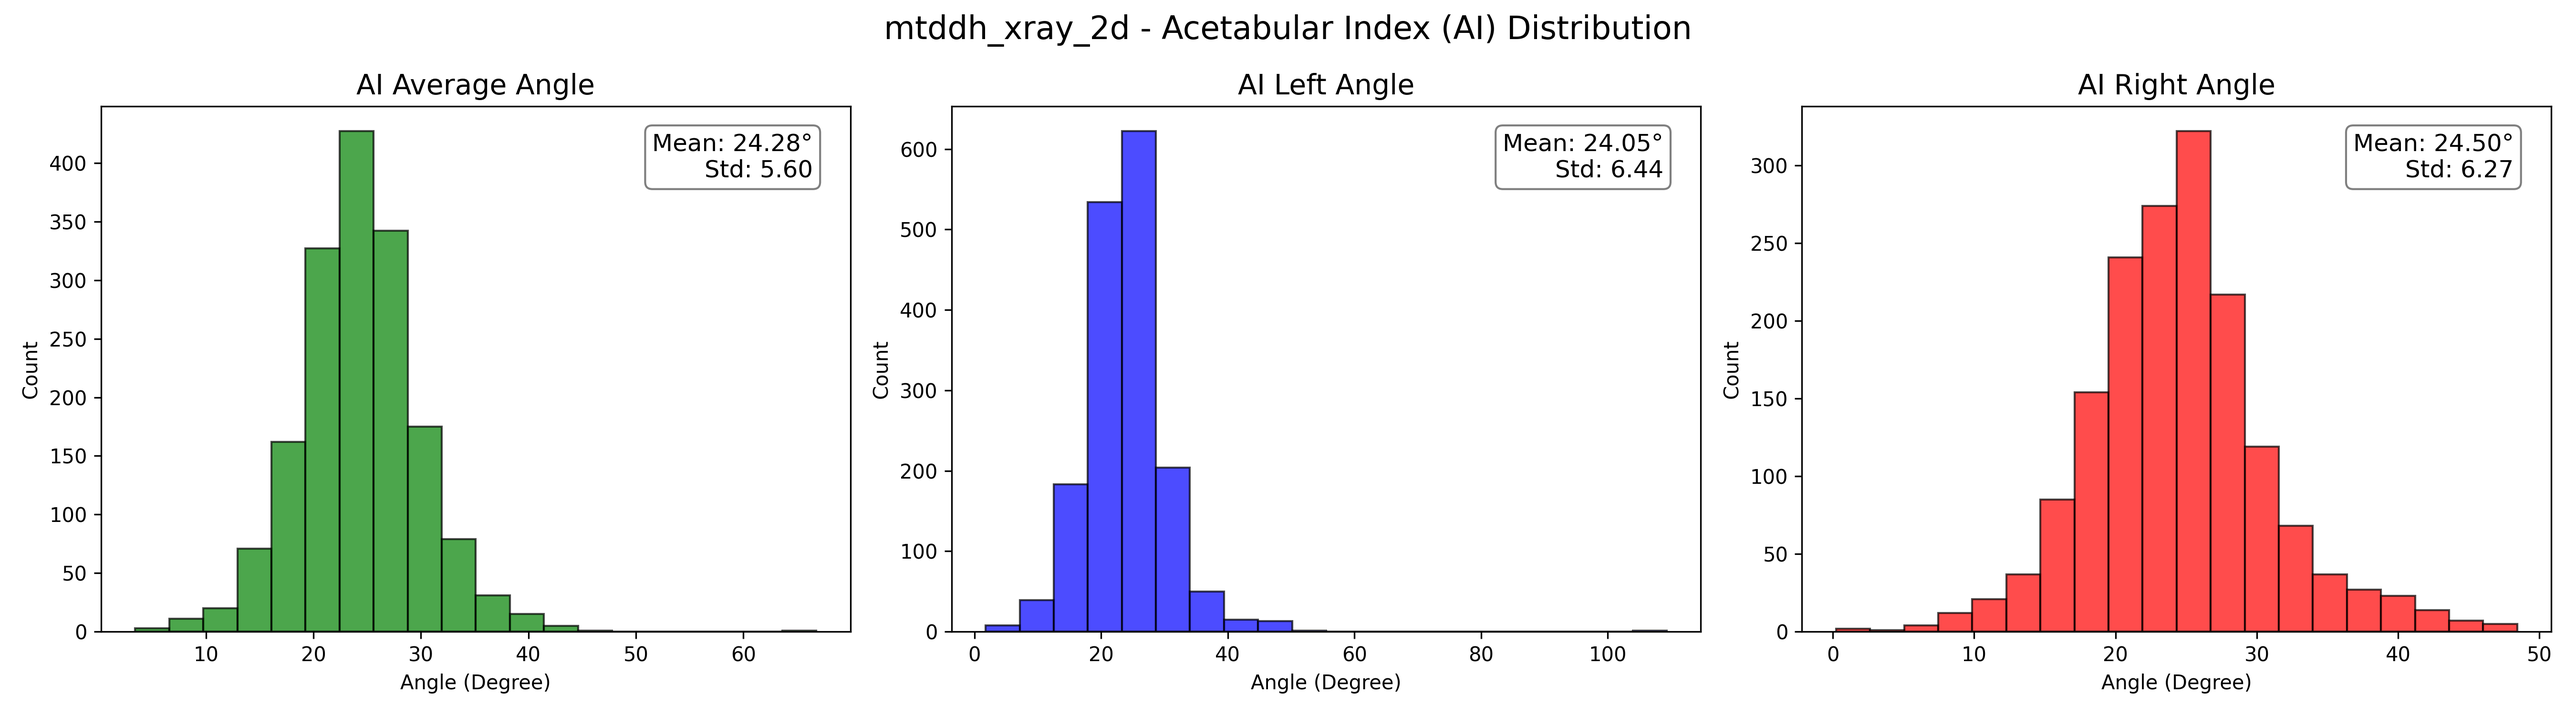
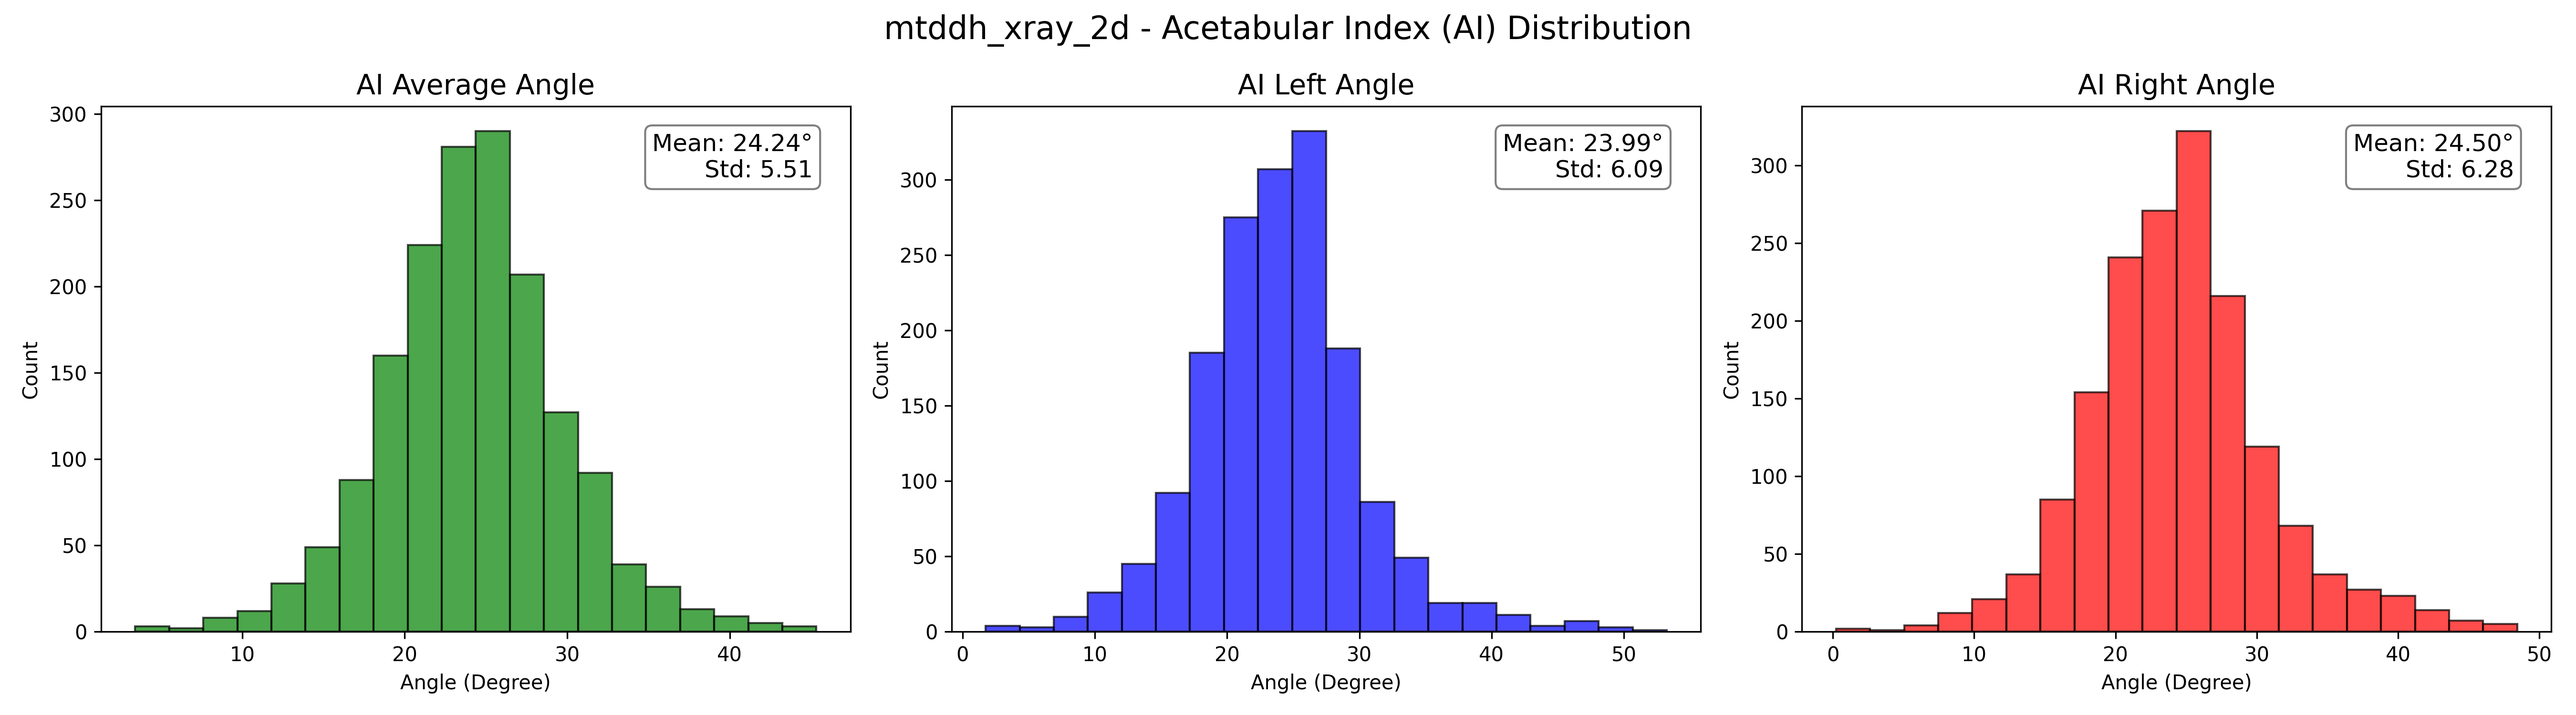
Docs: Fix documentation images.

diff --git a/README.md b/README.md
@@ -85,15 +85,15 @@ This study uses retrospectively collected hip X-ray images from National Cheng K
 
 **Acetabular Index (AI) Distribution**
 
-<img src="dataset/xray_IHDI_2_clean/xray_IHDI_AI_Distribution.png" />
+<img src="dataset/xray_IHDI_AI_Distribution.png" />
 
-<img src="dataset/mtddh_xray_2d/mtddh_xray_2d_AI_Distribution.png" />
+<img src="dataset/mtddh_xray_2d_AI_Distribution.png" />
 
 **IHDI Classification Distribution**
 
 <div style="display: flex; justify-content: space-between; gap: 10px;">
-  <img src="dataset/xray_IHDI_2_clean/xray_IHDI_IHDI_Distribution.png" style="width: 49%;" />
-  <img src="dataset/mtddh_xray_2d/mtddh_xray_2d_IHDI_Distribution.png" style="width: 49%;" />
+  <img src="dataset/xray_IHDI_IHDI_Distribution.png" style="width: 49%;" />
+  <img src="dataset/mtddh_xray_2d_IHDI_Distribution.png" style="width: 49%;" />
 </div>
 
 ## 🏆 Model Performance & Results

diff --git a/README_zh_TW.md b/README_zh_TW.md
@@ -73,13 +73,13 @@
 ### 📊資料統計分佈
 
 **Acetabular Index (AI) 分佈**
-<img src="dataset/xray_IHDI_2_clean/xray_IHDI_AI_Distribution.png" />
-<img src="dataset/mtddh_xray_2d/mtddh_xray_2d_AI_Distribution.png" />
+<img src="dataset/xray_IHDI_AI_Distribution.png" />
+<img src="dataset/mtddh_xray_2d_AI_Distribution.png" />
 
 **IHDI 分類分佈**
 <div style="display: flex; justify-content: space-between; gap: 10px;">
-  <img src="dataset/xray_IHDI_2_clean/xray_IHDI_IHDI_Distribution.png" style="width: 49%;" />
-  <img src="dataset/mtddh_xray_2d/mtddh_xray_2d_IHDI_Distribution.png" style="width: 49%;" />
+  <img src="dataset/xray_IHDI_IHDI_Distribution.png" style="width: 49%;" />
+  <img src="dataset/mtddh_xray_2d_IHDI_Distribution.png" style="width: 49%;" />
 </div>
 
 ## 🏆 Model Performance & Results
